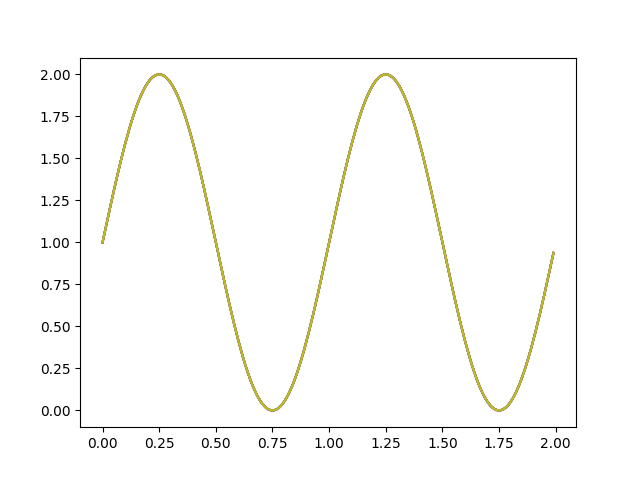
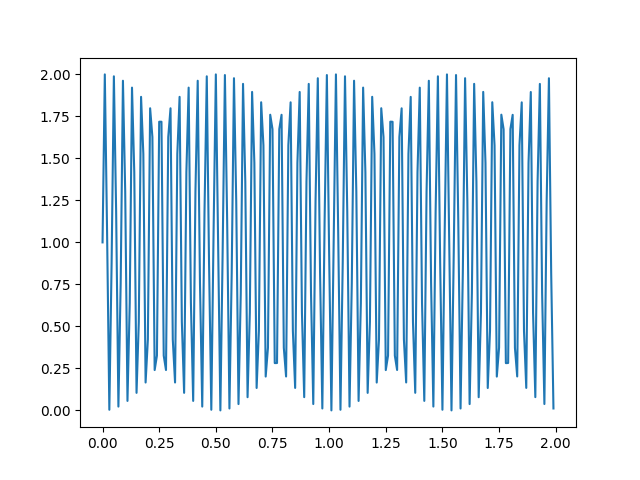
updated

Changed region(s): [[0.1562, 0.1562, 0.875, 0.875], [0.4062, 0.8438, 0.4375, 0.875]]

diff --git a/mlhandler.py b/mlhandler.py
@@ -8,9 +8,10 @@ import os
 
 def get_data_from_mlscript():
     t = np.arange(0.0, 2.0, 0.01)
-    s = 1 + np.sin(2 * np.pi * t)
-
+    s = 1 + np.sin(2 * np.random.randint(0,100) * t)
+    plt.gcf().clear()
     plt.plot(t,s)
+    os.remove('static/images/new_plot.png')
     plt.savefig('static/images/new_plot.png')
     return 'static/images/new_plot.png'
     
